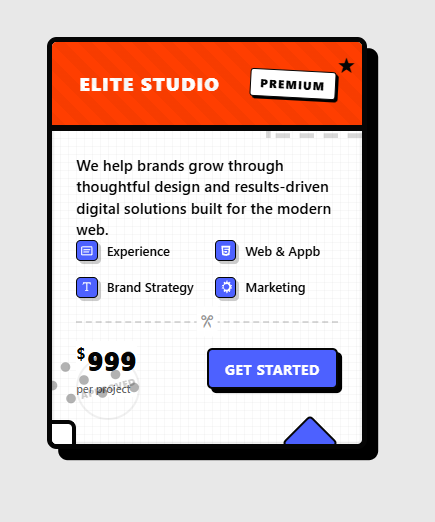
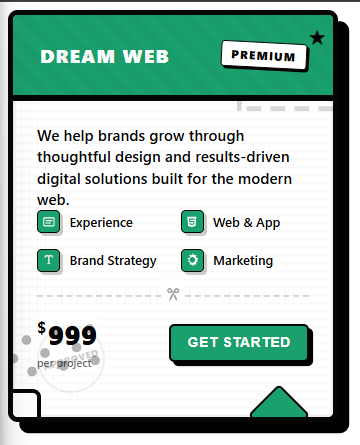
feat: update Pricing card with new color, text, and preview image

diff --git a/pricing-card/style.css b/pricing-card/style.css
@@ -1,13 +1,13 @@
 .card {
-  --primary: #ff3e00;
-  --primary-hover: #ff6d43;
-  --secondary: #4d61ff;
-  --secondary-hover: #5e70ff;
+  --primary: #1aa06d;
+  --primary-hover: #4133b7;
+  --secondary: #1aa06d;
+  --secondary-hover: #30acac;
   --accent: #00e0b0;
   --text: #050505;
   --bg: #ffffff;
   --shadow-color: #000000;
-  --pattern-color: #cfcfcf;
+  --pattern-color: #bdabc7;
 
   position: relative;
   width: 20em;

diff --git a/pricing-card/index.html b/pricing-card/index.html
@@ -19,7 +19,7 @@
     </div>
   
     <div class="card-title-area">
-      <span>Elite Studio</span>
+      <span>Dream Web</span>
       <span class="card-tag">Premium</span>
     </div>
   

diff --git a/pricing-card/README.md b/pricing-card/README.md
@@ -12,7 +12,7 @@ Perfect for:
 
 ## 🔍 Preview
 
-![Pricing Card Preview](./preview.png)
+![Pricing Card Preview](./preview.png)  ![Pricing Card Preview](./preview-hover.png)
 
 
 ---
